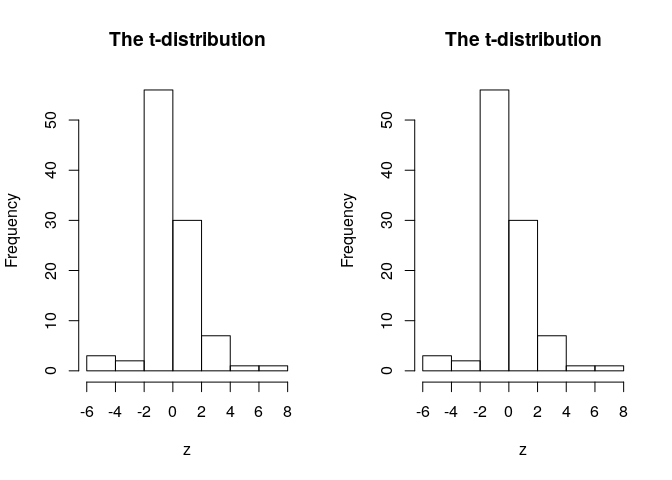
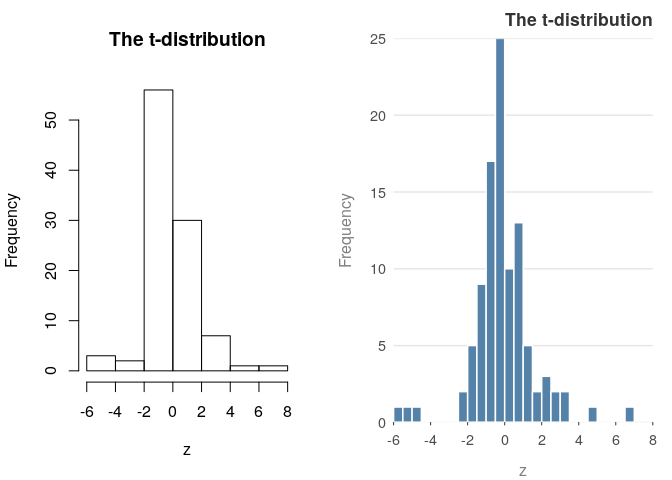
Update README

diff --git a/README.md b/README.md
@@ -62,7 +62,7 @@ the plot functions. This means, that no changes to existing code are
 required
 
 ``` r
-plot(iris$Sepal.Length, iris$Sepal.Width, 
+plot_p(iris$Sepal.Length, iris$Sepal.Width, 
      xlab = "Length", ylab = "Width",
      main = "The Iris data set", 
      sub = "I hate this data too")
@@ -79,7 +79,7 @@ The package also prettifies other functions
     ``` r
     z = rt(100, 4)
     hist(z, main = "The t-distribution")
-    hist(z, main = "The t-distribution")
+    hist_p(z, main = "The t-distribution")
     ```
     
     <img src="man/figures/README-unnamed-chunk-6-1.png" style="display: block; margin: auto;" />
@@ -88,7 +88,7 @@ The package also prettifies other functions
     
     ``` r
     barplot(VADeaths, main = "Death Rates in Virginia")
-    barplot(VADeaths, main = "Death Rates in Virginia")
+    barplot_p(VADeaths, main = "Death Rates in Virginia")
     ```
     
     <img src="man/figures/README-unnamed-chunk-7-1.png" style="display: block; margin: auto;" />
